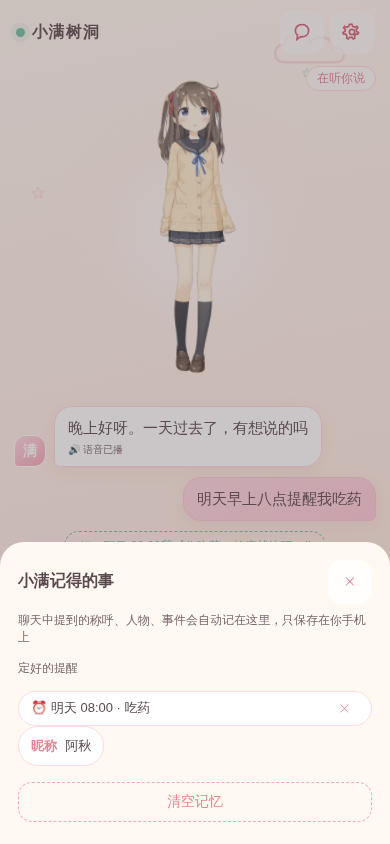
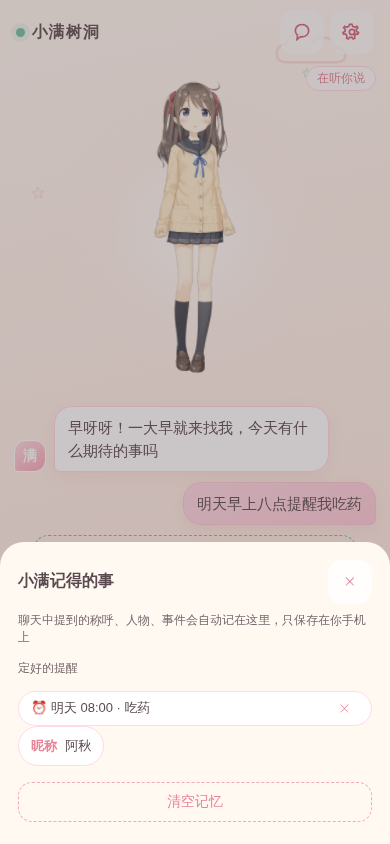
docs: 补录本轮测试再生成截图07（实测证据）并校正触及行

diff --git a/docs/DEVLOG.md b/docs/DEVLOG.md
@@ -19,7 +19,7 @@
 - 昨日「双测 cron 无执行痕迹」疑团 **解决**：job 创建于 10-09 21:25 晚于当日两个触发点；今日首触发正常执行并产出本条记录 → cron 调度本身健康，无需再查。
 - 10-08 `[ ] OFM 2.0.0 forward 端口` 维持挂起（前置条件「host 稳定」未满足）。
 
-触及：docs/DEVLOG.md（本条，纯 docs 无代码变更）
+触及：docs/DEVLOG.md（本条，纯 docs 无代码变更）、docs/shots/07_memory_reminder_drawer.png（本轮 UI 测试副产物再生成，作实测证据）
 
 ---
 
